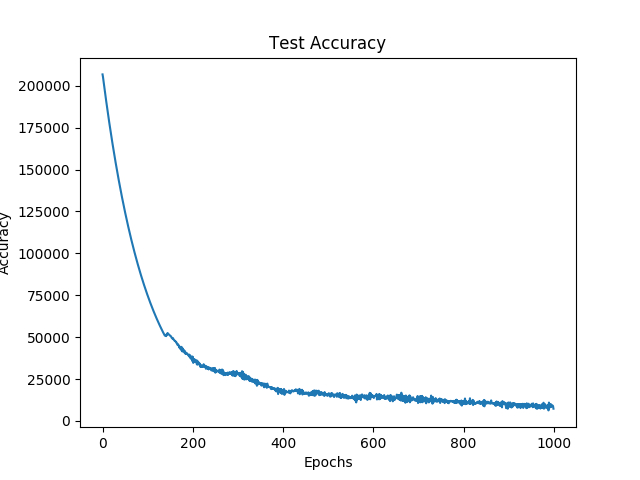
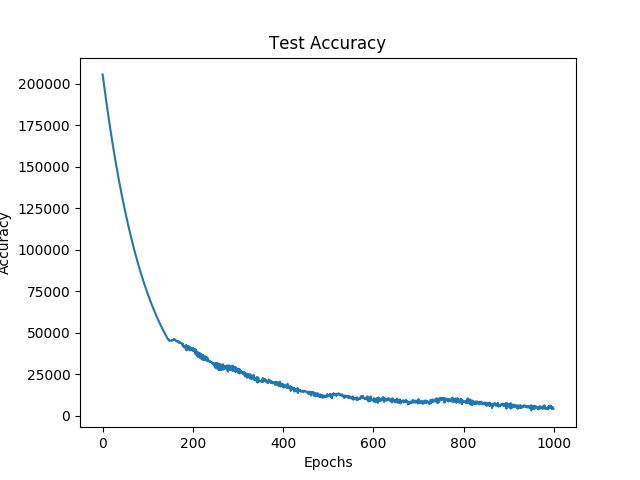
multilayer network

diff --git a/Proj1/Project_1b/p_b_question4.py b/Proj1/Project_1b/p_b_question4.py
@@ -32,127 +32,218 @@ def shuffle_data(samples, labels):
     samples, labels = samples[idx], labels[idx]
     return samples, labels
 
+for layer in [3, 4, 5]:
+    print(layer)
+    # read and divide data into test and train sets
+    cal_housing = np.loadtxt('cal_housing.data', delimiter=',')
+    X_data, Y_data = cal_housing[:, :8], cal_housing[:, -1]
+    Y_data = (np.asmatrix(Y_data)).transpose()
 
-# read and divide data into test and train sets
-cal_housing = np.loadtxt('cal_housing.data', delimiter=',')
-X_data, Y_data = cal_housing[:, :8], cal_housing[:, -1]
-Y_data = (np.asmatrix(Y_data)).transpose()
+    X_data, Y_data = shuffle_data(X_data, Y_data)
 
-X_data, Y_data = shuffle_data(X_data, Y_data)
+    # separate train and test data
+    m = 3 * X_data.shape[0] // 10
+    testX, testY = X_data[:m], Y_data[:m]
+    trainX, trainY = X_data[m:], Y_data[m:]
 
-# separate train and test data
-m = 3 * X_data.shape[0] // 10
-testX, testY = X_data[:m], Y_data[:m]
-trainX, trainY = X_data[m:], Y_data[m:]
+    # scale and normalize data
+    trainX_max, trainX_min = np.max(trainX, axis=0), np.min(trainX, axis=0)
+    testX_max, testX_min = np.max(testX, axis=0), np.min(testX, axis=0)
 
-# scale and normalize data
-trainX_max, trainX_min = np.max(trainX, axis=0), np.min(trainX, axis=0)
-testX_max, testX_min = np.max(testX, axis=0), np.min(testX, axis=0)
+    trainX = scale(trainX, trainX_min, trainX_max)
+    testX = scale(testX, testX_min, testX_max)
 
-trainX = scale(trainX, trainX_min, trainX_max)
-testX = scale(testX, testX_min, testX_max)
+    trainX_mean, trainX_std = np.mean(trainX, axis=0), np.std(trainX, axis=0)
+    testX_mean, testX_std = np.mean(testX, axis=0), np.std(testX, axis=0)
 
-trainX_mean, trainX_std = np.mean(trainX, axis=0), np.std(trainX, axis=0)
-testX_mean, testX_std = np.mean(testX, axis=0), np.std(testX, axis=0)
+    trainX = normalize(trainX, trainX_mean, trainX_std)
+    testX = normalize(testX, testX_mean, testX_std)
 
-trainX = normalize(trainX, trainX_mean, trainX_std)
-testX = normalize(testX, testX_mean, testX_std)
+    no_features = trainX.shape[1]
+    x = T.matrix('x')  # data sample
+    d = T.matrix('d')  # desired output
+    no_samples = T.scalar('no_samples')
 
-no_features = trainX.shape[1]
-x = T.matrix('x')  # data sample
-d = T.matrix('d')  # desired output
-no_samples = T.scalar('no_samples')
+    no_hidden2 = 20
+    no_hidden3 = 20
 
-no_hidden2 = 20
+    # initialize weights and biases for hidden layer(s) and output layer
+    w_o = theano.shared(np.random.randn(no_hidden2) * .01, floatX)
+    b_o = theano.shared(np.random.randn() * .01, floatX)
+    w_h1 = theano.shared(np.random.randn(no_features, no_hidden1) * .01, floatX)
+    b_h1 = theano.shared(np.random.randn(no_hidden1) * 0.01, floatX)
+
+    # Initialize variables for when iteration was best
+    best_w_o = np.zeros(no_hidden1)
+    best_w_h1 = np.zeros([no_features, no_hidden1])
+
+    best_b_o = 0
+    best_b_h1 = np.zeros(no_hidden1)
+
+    # learning rate
+    alpha = theano.shared(learning_rate, floatX)
 
 
-# initialize weights and biases for hidden layer(s) and output layer
-w_o = theano.shared(np.random.randn(no_hidden2) * .01, floatX)
-b_o = theano.shared(np.random.randn() * .01, floatX)
-w_h1 = theano.shared(np.random.randn(no_features, no_hidden1) * .01, floatX)
-b_h1 = theano.shared(np.random.randn(no_hidden1) * 0.01, floatX)
+    if layer == 3:
+        print("Layer 3")
+        h1_out = T.nnet.sigmoid(T.dot(x, w_h1) + b_h1)
+        y = T.dot(h1_out, w_o) + b_o
 
-#Initialize weight and bias for second hidden layer
-w_h2 = theano.shared(np.random.randn(no_hidden1, no_hidden2) * 0.01, floatX)
-b_h2 = theano.shared(np.random.randn(no_hidden2), floatX)
+        cost = T.abs_(T.mean(T.sqr(d - y)))
+        accuracy = T.mean(d - y)
+
+        #define gradients
+        dw_o, db_o, dw_h, db_h = T.grad(cost, [w_o, b_o, w_h1, b_h1])
+
+
+        #define training function
+        train = theano.function(
+            inputs=[x, d],
+            outputs=cost,
+            updates=[[w_o, w_o - alpha * dw_o],
+                     [b_o, b_o - alpha * db_o],
+                     [w_h1, w_h1 - alpha * dw_h],
+                     [b_h1, b_h1 - alpha * db_h]],
+            allow_input_downcast=True
+        )
+
+
+    elif layer >= 4:
+
+        #Initialize weight and bias for second hidden layer
+        w_h2 = theano.shared(np.random.randn(no_hidden1, no_hidden2) * 0.01, floatX)
+        b_h2 = theano.shared(np.random.randn(no_hidden2) * 0.01, floatX)
+        best_w_h2 = np.zeros([no_hidden1, no_hidden2])
+        best_b_h2 = np.zeros(no_hidden2)
+        if layer == 4:
+            print("Layer 4")
+            h1_out = T.nnet.sigmoid(T.dot(x, w_h1) + b_h1)
+            h2_out = T.nnet.sigmoid(T.dot(h1_out, w_h2) + b_h2)
+            y = T.dot(h2_out, w_o) + b_o
+
+            cost = T.abs_(T.mean(T.sqr(d - y)))
+            accuracy = T.mean(d - y)
+
+            # define gradients
+            dw_o, db_o, dw_h, db_h, dw_h2, db_h2 = T.grad(cost, [w_o, b_o, w_h1, b_h1, w_h2, b_h2])
+
+            #define training function
+            train = theano.function(
+                inputs=[x, d],
+                outputs=cost,
+                updates=[[w_o, w_o - alpha * dw_o],
+                         [b_o, b_o - alpha * db_o],
+                         [w_h1, w_h1 - alpha * dw_h],
+                         [b_h1, b_h1 - alpha * db_h],
+                         [w_h2, w_h2 - alpha * dw_h2],
+                         [b_h2, b_h2 - alpha * db_h2],
+                         ],
+                allow_input_downcast=True
+            )
+
+            #Initialize variables for when iteration was best
+
+        elif layer == 5:
+            print("Layer 5")
+            w_h3 = theano.shared(np.random.randn(no_hidden2, no_hidden3) * 0.01, floatX)
+            b_h3 = theano.shared(np.random.randn(no_hidden3) * 0.01, floatX)
+
+            h1_out = T.nnet.sigmoid(T.dot(x, w_h1) + b_h1)
+            h2_out = T.nnet.sigmoid(T.dot(h1_out, w_h2) + b_h2)
+            h3_out = T.nnet.sigmoid(T.dot(h2_out, w_h3) + b_h3)
+            y = T.dot(h3_out, w_o) + b_o
+
+            cost = T.abs_(T.mean(T.sqr(d - y)))
+            accuracy = T.mean(d - y)
+
+            dw_o, db_o, dw_h, db_h, dw_h2, db_h2, dw_h3, db_h3= T.grad(cost, [w_o, b_o, w_h1, b_h1, w_h2, b_h2, w_h3, b_h3])
+
+            train = theano.function(
+                inputs=[x, d],
+                outputs=cost,
+                updates=[[w_o, w_o - alpha * dw_o],
+                         [b_o, b_o - alpha * db_o],
+                         [w_h1, w_h1 - alpha * dw_h],
+                         [b_h1, b_h1 - alpha * db_h],
+                         [w_h2, w_h2 - alpha * dw_h2],
+                         [b_h2, b_h2 - alpha * db_h2],
+                         [w_h3, w_h3 - alpha * dw_h3],
+                         [b_h3, b_h3 - alpha * db_h3],
+                         ],
+                allow_input_downcast=True
+            )
+
+            best_w_h3 = np.zeros([no_hidden2, no_hidden3])
+            best_b_h3 = np.zeros(no_hidden3)
 
 
 
-# learning rate
-alpha = theano.shared(learning_rate, floatX)
+    # Define mathematical expression:
 
-# Define mathematical expression:
-h1_out = T.nnet.sigmoid(T.dot(x, w_h1) + b_h1)
-h2_out = T.nnet.sigmoid(T.dot(h1_out, w_h2) + b_h2)
-y = T.dot(h2_out, w_o) + b_o
+    test = theano.function(
+        inputs=[x, d],
+        outputs=[y, cost, accuracy],
+        allow_input_downcast=True
+    )
 
-cost = T.abs_(T.mean(T.sqr(d - y)))
-accuracy = T.mean(d - y)
+    train_cost = np.zeros(epochs)
+    test_cost = np.zeros(epochs)
+    test_accuracy = np.zeros(epochs)
 
-# define gradients
-dw_o, db_o, dw_h, db_h, dw_h2, db_h2 = T.grad(cost, [w_o, b_o, w_h1, b_h1, w_h2, b_h2])
+    min_error = 1e+15
+    best_iter = 0
 
-train = theano.function(
-    inputs=[x, d],
-    outputs=cost,
-    updates=[[w_o, w_o - alpha * dw_o],
-             [b_o, b_o - alpha * db_o],
-             [w_h1, w_h1 - alpha * dw_h],
-             [b_h1, b_h1 - alpha * db_h],
-             [w_h2, w_h2 - alpha * db_h2],
-             [b_h2, b_h2 - alpha * db_h2],
-            ],
-    allow_input_downcast=True
-)
+    alpha.set_value(learning_rate)
 
-test = theano.function(
-    inputs=[x, d],
-    outputs=[y, cost, accuracy],
-    allow_input_downcast=True
-)
+    print(alpha.get_value())
 
-train_cost = np.zeros(epochs)
-test_cost = np.zeros(epochs)
-test_accuracy = np.zeros(epochs)
-
-min_error = 1e+15
-best_iter = 0
-best_w_o = np.zeros(no_hidden1)
-best_w_h1 = np.zeros([no_features, no_hidden1])
-best_b_o = 0
-best_b_h1 = np.zeros(no_hidden1)
-
-alpha.set_value(learning_rate)
-print(alpha.get_value())
-
-t = time.time()
-for iter in range(epochs):
-    if iter % 100 == 0:
+    for iter in range(epochs):
+        #if iter % 100 == 0:
         print(iter)
 
-    trainX, trainY = shuffle_data(trainX, trainY)
-    train_cost[iter] = train(trainX, np.transpose(trainY))
-    pred, test_cost[iter], test_accuracy[iter] = test(testX, np.transpose(testY))
+        trainX, trainY = shuffle_data(trainX, trainY)
+        train_cost[iter] = train(trainX, np.transpose(trainY))
 
-    if test_cost[iter] < min_error:
-        best_iter = iter
-        min_error = test_cost[iter]
-        best_w_o = w_o.get_value()
-        best_w_h1 = w_h1.get_value()
-        best_b_o = b_o.get_value()
-        best_b_h1 = b_h1.get_value()
+        pred, test_cost[iter], test_accuracy[iter] = test(testX, np.transpose(testY))
 
-# set weights and biases to values at which performance was best
-w_o.set_value(best_w_o)
-b_o.set_value(best_b_o)
-w_h1.set_value(best_w_h1)
-b_h1.set_value(best_b_h1)
+        if test_cost[iter] < min_error:
+            best_iter = iter
+            min_error = test_cost[iter]
+            best_w_o = w_o.get_value()
+            best_b_o = b_o.get_value()
+            best_w_h1 = w_h1.get_value()
+            best_b_h1 = b_h1.get_value()
+            if layer >= 4:
+                best_w_h2 = w_h2.get_value()
+                best_b_h2 = b_h2.get_value()
+            if layer == 5:
+                best_b_h3 = b_h3.get_value()
+                best_w_h3 = w_h3.get_value()
 
-best_pred, best_cost, best_accuracy = test(testX, np.transpose(testY))
+    # set weights and biases to values at which performance was best
+    w_o.set_value(best_w_o)
+    b_o.set_value(best_b_o)
+    w_h1.set_value(best_w_h1)
+    b_h1.set_value(best_b_h1)
 
-print('Minimum error: %.1f, Best accuracy %.1f, Number of Iterations: %d' % (best_cost, best_accuracy, best_iter))
+    if layer >= 4:
+        w_h2.set_value(best_w_h2)
+        b_h2.set_value(best_b_h2)
+    if layer == 5:
+        w_h3.set_value(best_w_h3)
+        b_h3.set_value(best_b_h3)
+
+
+    plt.figure("accuracy")
+    plt.plot(range(epochs), test_accuracy, label = "Layers: " + str(layer))
+
+
+    best_pred, best_cost, best_accuracy = test(testX, np.transpose(testY))
+
+    print('Minimum error: %.1f, Best accuracy %.1f, Number of Iterations: %d' % (best_cost, best_accuracy, best_iter))
 
 # Plots
+"""
 plt.figure()
 plt.plot(range(epochs), train_cost, label='train error')
 plt.plot(range(epochs), test_cost, label='test error')
@@ -162,11 +253,13 @@ plt.title('Training and Test Errors at Alpha = %.4f' % learning_rate)
 plt.legend()
 plt.savefig('p_1b_sample_mse.png')
 plt.show()
+"""
 
-plt.figure()
-plt.plot(range(epochs), test_accuracy)
+plt.figure("accuracy")
 plt.xlabel('Epochs')
 plt.ylabel('Accuracy')
 plt.title('Test Accuracy')
-plt.savefig('p_1b_sample_accuracy.png')
+plt.savefig('pbq4_accuracy.png')
+plt.figure()
+
 plt.show()

diff --git a/Proj1/Project_1b/p_b_question2.py b/Proj1/Project_1b/p_b_question2.py
@@ -40,7 +40,7 @@ def shuffle_data(samples, labels):
 #Try different learning rates
 
 learning_rate_search_space = [1e-3, 0.5*1e-3, 1e-4, 0.5*1e-4, 1e-5]
-colors = colors = ["blue", "purple", "green", "black", "orange"]
+colors = ["blue", "purple", "green", "black", "orange"]
 
 
 for learning_rate in learning_rate_search_space:
@@ -161,15 +161,12 @@ for learning_rate in learning_rate_search_space:
 
     #Add this code for plot of accuracy of best learning rate, 1e-4.
 
-    if learning_rate == 1e-4:
-        plt.figure("accuracy")
-        plt.plot(range(epochs), test_accuracy, label = "Learning rate " + str(learning_rate),
+
+    plt.figure("accuracy")
+    plt.plot(range(epochs), test_accuracy, label = "Learning rate " + str(learning_rate),
                  color = colors[learning_rate_search_space.index(learning_rate)])
 
-        plt.xlabel('Epochs')
-        plt.ylabel('Accuracy')
-        plt.title('Test Accuracy')
-        plt.savefig('pbq2_b_accuracy.png')
+
 
 
 
@@ -189,6 +186,12 @@ plt.title('Test Errors at different learning rates')
 plt.legend(loc = "best")
 plt.savefig("pbq2_test_error")
 
+
+plt.figure("accuracy")
+plt.xlabel('Epochs')
+plt.ylabel('Accuracy')
+plt.title('Test Accuracy')
+plt.savefig('pbq2_b_accuracy.png')
 
 plt.show()
 

diff --git a/Proj1/Project_1b/p_b_question3.py b/Proj1/Project_1b/p_b_question3.py
@@ -43,7 +43,7 @@ hidden_layer_neurons_possibilities = [20, 30, 40, 50, 60]
 colors = colors = ["blue", "purple", "green", "black", "orange"]
 
 
-for no_hidden1 in [hidden_layer_neurons_possibilities[3]]:
+for no_hidden1 in hidden_layer_neurons_possibilities:
     cal_housing = np.loadtxt('cal_housing.data', delimiter=',')
     X_data, Y_data = cal_housing[:, :8], cal_housing[:, -1]
     Y_data = (np.asmatrix(Y_data)).transpose()

diff --git a/Proj1/Project_1b/test.py b/Proj1/Project_1b/test.py
@@ -1,0 +1,12 @@
+
+import numpy as np
+
+
+
+
+
+list = [5, 6]
+
+array = np.zeros(list)
+
+print(array)
